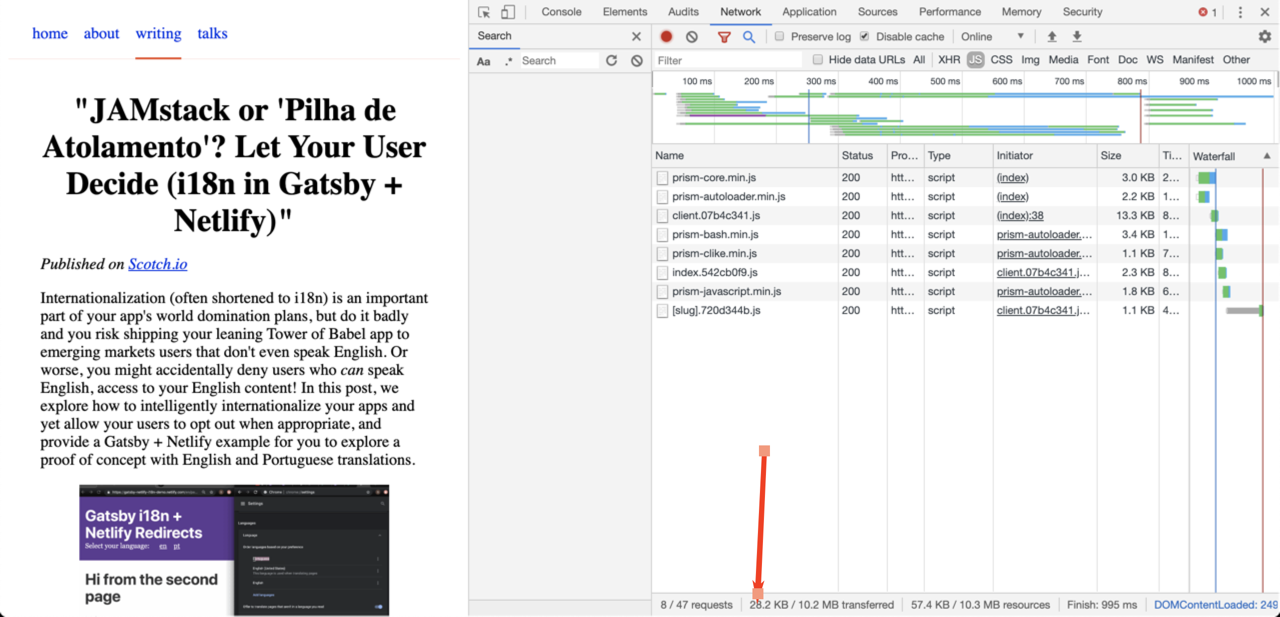
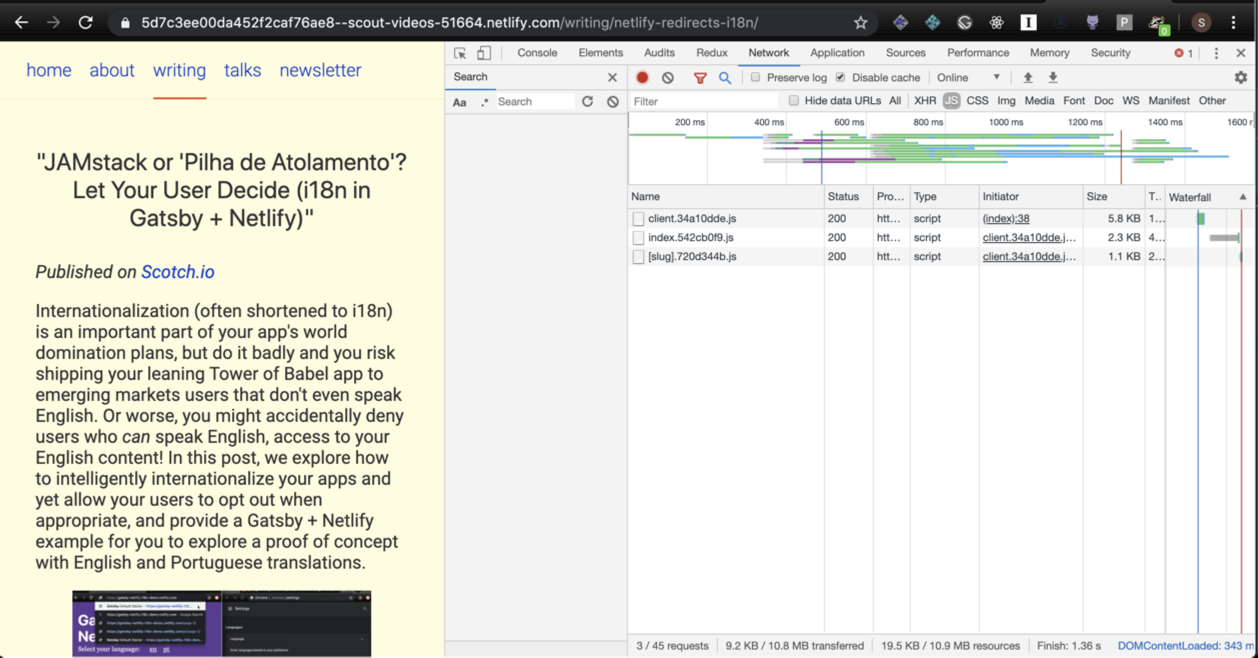
actually commit shiki highlighted code

diff --git a/sapper_markdown_code.js b/sapper_markdown_code.js
@@ -4,79 +4,88 @@ const { extract_frontmatter, langs, link_renderer } = require('./sapper_sitekit'
 const marked = require('marked')
 const { makeSlugProcessor } = require('./sapper_markdown_slug')
 const SLUG_PRESERVE_UNICODE = false
-const PrismJS = require('prismjs')
-require('prismjs/components/prism-markdown')
-require('prismjs/components/prism-typescript')
-require('prismjs/components/prism-jsx')
-require('prismjs/components/prism-tsx')
+const shiki = require('shiki')
 
 const makeSlug = makeSlugProcessor(SLUG_PRESERVE_UNICODE)
 
 exports.get_posts = getPosts
-function getPosts(contentPath, linkPrefix = '') {
-  return fs
-    .readdirSync(contentPath)
-    .map((file) => {
-      const fullFilePath = path.join(contentPath, file)
-      if (fs.lstatSync(fullFilePath).isDirectory()) {
-        // recursive
-        const data = getPosts(fullFilePath, linkPrefix)
-        return data
-      }
-      if (path.extname(file) !== '.md') return
+async function getPosts(contentPath, linkPrefix = '') {
+  const highlighter = await shiki.getHighlighter({ theme: 'Material-Theme-Palenight' })
+  const potato = await Promise.all(
+    fs
+      .readdirSync(contentPath)
+      .map(async (file) => {
+        const fullFilePath = path.join(contentPath, file)
+        if (fs.lstatSync(fullFilePath).isDirectory()) {
+          // recursive
+          const data = await getPosts(fullFilePath, linkPrefix)
+          return data
+        }
+        if (path.extname(file) !== '.md') return
 
-      const match = /^(.+)\.md$/.exec(file)
-      // if (!match) throw new Error(`Invalid filename '${file}'`)
+        const match = /^(.+)\.md$/.exec(file)
+        // if (!match) throw new Error(`Invalid filename '${file}'`)
 
-      const [, slug] = match
+        const [, slug] = match
 
-      const markdown = fs.readFileSync(fullFilePath, 'utf-8')
+        const markdown = fs.readFileSync(fullFilePath, 'utf-8')
 
-      const { content, metadata } = extract_frontmatter(markdown)
-      let pubdate = metadata.date || new Date().toString().slice(4, 15)
-      const date = new Date(`${pubdate} EDT`) // cheeky hack
-      metadata.pubdate = pubdate
-      metadata.date = new Date(pubdate)
-      metadata.dateString = date.toDateString()
+        const { content, metadata } = extract_frontmatter(markdown)
+        let pubdate = metadata.date || new Date().toString().slice(4, 15)
+        const date = new Date(`${pubdate} EDT`) // cheeky hack
+        metadata.pubdate = pubdate
+        metadata.date = new Date(pubdate)
+        metadata.dateString = date.toDateString()
 
-      const renderer = new marked.Renderer()
+        const renderer = new marked.Renderer()
 
-      renderer.link = link_renderer
+        renderer.link = link_renderer
 
-      renderer.code = (source, lang) => {
-        const plang = langs[lang] || 'javascript'
-        const temp = Object.keys(PrismJS.languages)
-        const highlighted = PrismJS.highlight(source, PrismJS.languages[plang], lang)
+        renderer.code = (source, lang = 'javascript') => {
+          // const plang = langs[lang] || 'javascript'
+          lang = lang.split(':')[0]
+          if (lang === 'toml') lang = 'markdown'
+          if (lang === '') lang = 'markdown'
+          return highlighter.codeToHtml(source, lang)
+          // return `<pre class='language-${plang}'><code>${highlighted}</code></pre>`
+        }
 
-        return `<pre class='language-${plang}'><code>${highlighted}</code></pre>`
-      }
+        renderer.heading = (text, level, rawtext) => {
+          const fragment = makeSlug(rawtext)
 
-      renderer.heading = (text, level, rawtext) => {
-        const fragment = makeSlug(rawtext)
-
-        return `
+          return `
 					<h${level}>
 						<span id="${fragment}" class="offset-anchor"></span>
 						<a href="/${linkPrefix}/${slug}#${fragment}" class="anchor" aria-hidden="true"></a>
 						${text}
 					</h${level}>`
-      }
+        }
 
-      const temp = content.replace(/^\t+/gm, (match) => match.split('\t').join('  '))
-      const html = marked(temp, { renderer })
+        const temp = content.replace(/^\t+/gm, (match) => match.split('\t').join('  '))
+        const html = marked(temp, { renderer })
 
-      const newSlug = slug
-      return {
-        html,
-        metadata,
-        slug: newSlug,
-      }
-    })
-    .filter(Boolean)
-    .filter((x) => (typeof x.published === 'undefined' ? true : x.published))
+        const newSlug = slug
+        return {
+          html,
+          metadata,
+          slug: newSlug,
+        }
+      })
+      .filter(Boolean)
+      .filter((x) => (typeof x.published === 'undefined' ? true : x.published)),
+  )
+  // potato.forEach((x) => {
+  //   if (!Object.keys(x).length) {
+  //     console.log('peek', x)
+  //   }
+  // })
+  return potato
     .reduce((acc, cur) => (Array.isArray(cur) ? [...acc, ...cur] : [...acc, cur]), [])
     .sort((a, b) => {
-      if (!a.metadata) console.log('nometadata', Object.keys(a[0]))
+      if (!a.metadata) {
+        console.log('nometadata', Object.keys(a))
+      }
       return a.metadata.pubdate < b.metadata.pubdate ? 1 : -1
     })
+    .filter(Boolean)
 }

diff --git a/ssg.config.js b/ssg.config.js
@@ -1,8 +1,16 @@
 const fs = require('fs')
 const path = require('path')
 const { get_posts } = require('./sapper_markdown_code')
-exports.getData = async () => {
-  let _talks = get_posts('content/talks', 'talks')
+
+exports.getData = async (category, slug) => {
+  const data = require(path.resolve('.ssg/data.json'))
+  const result = data[category][slug]
+  if (typeof result === 'undefined') throw new Error('no data found for ' + slug)
+  return result
+}
+
+exports.getInitialData = async () => {
+  let _talks = await get_posts('content/talks', 'talks')
   const talks = extractSlugObjectFromArray(_talks)
   const talks_index = _talks.map((v) => ({
     title: v.metadata.title,
@@ -10,7 +18,7 @@ exports.getData = async () => {
     date: v.metadata.date,
   }))
   talks.talks_index = talks_index
-  let _writing = get_posts('content/writing', 'writing')
+  let _writing = await get_posts('content/writing', 'writing')
   const writing = extractSlugObjectFromArray(_writing)
   const writing_index = _writing.map((v) => ({
     title: v.metadata.title,

diff --git a/src/template.html b/src/template.html
@@ -51,7 +51,6 @@
     <!-- This contains the contents of the <svelte:head> component, if
 	     the current page has one -->
     %sapper.head%
-    <link href="https://cdnjs.cloudflare.com/ajax/libs/prism/1.17.1/themes/prism-solarizedlight.min.css" rel="stylesheet" />
   </head>
   <body>
     <!-- The application will be rendered inside this element,
@@ -63,13 +62,5 @@
 	     initialise the router -->
     %sapper.scripts%
 
-    <script
-      src="https://cdnjs.cloudflare.com/ajax/libs/prism/1.17.1/components/prism-core.min.js"
-      crossorigin="anonymous"
-    ></script>
-    <script
-      src="https://cdnjs.cloudflare.com/ajax/libs/prism/1.17.1/plugins/autoloader/prism-autoloader.min.js"
-      crossorigin="anonymous"
-    ></script>
   </body>
 </html>

diff --git a/src/routes/data/[slug].json.js b/src/routes/data/[slug].json.js
@@ -2,13 +2,13 @@ const { getData } = require('../../../ssg.config')
 
 export async function get(req, res) {
   const { slug } = req.params
-  const data = await getData()
   const splitSlug = slug.split('___ssg___')
   const category = splitSlug[0]
   const realSlug = splitSlug[1]
-  if (data[category][realSlug]) {
+  const data = await getData(category, realSlug)
+  if (data) {
     res.writeHead(200, { 'Content-Type': 'application/json' })
-    res.end(JSON.stringify(data[category][realSlug]))
+    res.end(JSON.stringify(data))
   } else {
     res.writeHead(404, { 'Content-Type': 'application/json' })
     res.end(JSON.stringify({ message: `Not found` }))

diff --git a/src/routes/index.svelte b/src/routes/index.svelte
@@ -1,5 +1,5 @@
 <style>
-  h1 {
+  h1, h2 {
     text-align: center;
     margin: 0 auto;
   }
@@ -33,10 +33,11 @@
 </style>
 
 <svelte:head>
-  <title>Spark Joy</title>
+  <title>swyx's site</title>
 </svelte:head>
 
-<h1>Spark Joy!</h1>
+<h1>swyx's site!</h1>
+<h2>Latest Post: <a href="/writing/svelte-static"><b>Static Svelte: JavaScript Blogging with 80% less JavaScript</b></a></h2>
 <!-- 
 <figure>
   <img alt="Borat" src="great-success.png" />

diff --git a/src/components/Nav.svelte b/src/components/Nav.svelte
@@ -73,5 +73,10 @@
           talks
         </a>
       </li>
+      <li>
+          <a href="https://tinyletter.com/swyx">
+            newsletter
+          </a>
+        </li>
   </ul>
 </nav>

diff --git a/src/routes/_layout.svelte b/src/routes/_layout.svelte
@@ -1,8 +1,5 @@
 <script>
   import Nav from "../components/Nav.svelte";
-
-  import PrismJS from 'prismjs'
-  import 'prismjs/components/prism-bash'
   export let segment;
 </script>
 

diff --git a/src/routes/talks/index.svelte b/src/routes/talks/index.svelte
@@ -37,9 +37,9 @@
 		text-align: center;
 		margin: 0 auto;
 	} */
-  img {
+  /* img {
     max-width: 95%;
-  }
+  } */
 </style>
 
 <svelte:head>

diff --git a/src/routes/writing/index.svelte b/src/routes/writing/index.svelte
@@ -37,9 +37,9 @@
 		text-align: center;
 		margin: 0 auto;
 	} */
-  img {
+  /* img {
     max-width: 95%;
-  }
+  } */
 </style>
 
 <svelte:head>

diff --git a/content/writing/technical/svelte/svelte-static.md b/content/writing/technical/svelte/svelte-static.md
@@ -1,5 +1,5 @@
 ---
-title: "Static Svelte: JavaScript Blogging with 80% less JavaScript"
+title: "Static Svelte: JavaScript Blogging with 93% less JavaScript"
 subtitle: "Why Svelte is a Perfect Fit For Blogging"
 slug: svelte-blogging-fit
 categories: ['Tech', 'Svelte']
@@ -11,10 +11,10 @@ This blog now uses [Svelte & Sapper](https://sapper.svelte.dev/) as a static sit
 Through the magic of [Netlify's Immutable Deploys](https://www.netlify.com/blog/2018/10/05/netlify-and-the-functional-immutable-reactive-deploy/?utm_source=blog&utm_medium=swyxdotio&utm_campaign=devex), we can directly compare them on representative live URL's for a recent blogpost of mine:
 
 - [With React/Gatsby](https://5d7699e172ae430007210374--scout-videos-51664.netlify.com/writing/netlify-redirects-i18n): **138kb**
-- [With Svelte/Sapper](https://5d7c2bf230bb95de0eea060a--scout-videos-51664.netlify.com/writing/netlify-redirects-i18n/): **28kb**
+- [With Svelte/Sapper](https://5d7c3ee00da452f2caf76ae8--scout-videos-51664.netlify.com/writing/netlify-redirects-i18n/): **9kb**
 - For the curious, I also recently wrote about using [Next.js as a Static Site Generator](https://scotch.io/@sw-yx/using-nextjs-as-a-static-site-generator-for-netlify) as well, but don't expect much difference.
 
-> ⚠To be very clear - this post is not even close to being an apples to apples benchmark, and I spend some effort below explaining why it isn't. If you aren't prepared to read this post with a critical mind and understanding that this is a random , please stop here.
+> ⚠To be very clear - this post is not even close to being an apples to apples benchmark, and I spend some effort below explaining why it isn't. If you aren't prepared to read this post with a critical mind and understanding that this is a random work in progress report, please stop here.
 
 ## Screenshots
 
@@ -24,7 +24,7 @@ Through the magic of [Netlify's Immutable Deploys](https://www.netlify.com/blog/
 
 ### Sapper version
 
-![screenshot of Sapper site with 28kb of JS](./assets/sveltesvelte.png)
+![screenshot of Sapper site with 9kb of JS](./assets/sveltesvelte.png)
 
 ## Differences and Similarities
 
@@ -36,9 +36,9 @@ However, both Gatsby and Sapper offer clientside rehydration, which makes the su
 
 This is by no means a free tradeoff: as [Addy Osmani recently noted](https://addyosmani.com/blog/rehydration/), an "uncanny valley" of rehydration exists, and [Alex Russell consistently warns](https://infrequently.org/2018/09/the-developer-experience-bait-and-switch/) that better developer experience is not without its costs.
 
-I could have made the difference more drastic by omitting [PrismJS](https://prismjs.com/), which adds ~19kb of JS, which is more than half the final JS payload of the Sapper site. However, as a developer you can pry syntax highlighting from my cold dead hands. So it wouldn't be fair to compare a site without syntax highlighting to my old site with one.
+I originally used [PrismJS](https://prismjs.com/), which adds ~19kb of JS, beacuse as a developer you can pry syntax highlighting from my cold dead hands. So it wouldn't be fair to compare a site without syntax highlighting to my old site with one.
 
-Of course, I could have also put in a bit more effort exploring a no-JS solution for syntax highlighting, since I don't intend readers to edit the code in runtime. [Andrew Branch recently twote](https://mobile.twitter.com/atcb/status/1158480783666888704) about how to preprocess ALL your syntax-highlighting using some VSCode API's.
+However, there are no-JS solutions for syntax highlighting, since I don't intend readers to edit the code in runtime. [Andrew Branch recently twote](https://mobile.twitter.com/atcb/status/1158480783666888704) about how to preprocess ALL your syntax-highlighting using some VSCode API's. I put this off as too complicated, but [Khrome](https://khrome.dev) tipped me off that the open source [shiki](https://github.com/octref/shiki) library from the Vue ecosystem does the same thing and so I managed to get that in.
 
 ## Differences
 
@@ -56,7 +56,7 @@ For these reasons, the (default, no throttling) Lighthouse scores tell the corre
   - Best Practices: 93
   - SEO: 89
   - PWA: yes
-- [Sapper version](https://5d7c2bf230bb95de0eea060a--scout-videos-51664.netlify.com/writing/netlify-redirects-i18n/): 
+- [Sapper version](https://5d7c3ee00da452f2caf76ae8--scout-videos-51664.netlify.com/writing/netlify-redirects-i18n/): 
   - Performance: 100
   - Accessibility: 86
   - Best Practices: 86
@@ -66,6 +66,6 @@ For these reasons, the (default, no throttling) Lighthouse scores tell the corre
 
 Finally, the Sapper site does not use CSS-in-JS. This is a very controversial topic with pros and cons so I put it last. In particular, if you have not spent time appreciating [some basic facts of CSS in JS from proponents](https://mxstbr.com/thoughts/css-in-js/), as well as [some nuances in implementation](https://github.com/styled-components/styled-components/issues/2377), then your debate will not be very well informed.
 
-The old site has a [Dark Theme Toggle](https://github.com/sw-yx/gatsby-theme-dev-blog/blob/master/packages/gatsby-theme-dev-blog/src/components/Header/ThemeToggler.js). This Sapper implementation does not.
+The old site has a [Dark Theme Toggle](https://github.com/sw-yx/gatsby-theme-dev-blog/blob/master/packages/gatsby-theme-dev-blog/src/components/Header/ThemeToggler.js). Also a responsive mobile navigation. This Sapper implementation does not.
 
 However, I expect [animations to be a lot easier with Svelte](https://svelte.dev/tutorial/animate) as it is a first class citizen. This frees me up to play a lot more with animations in future.
